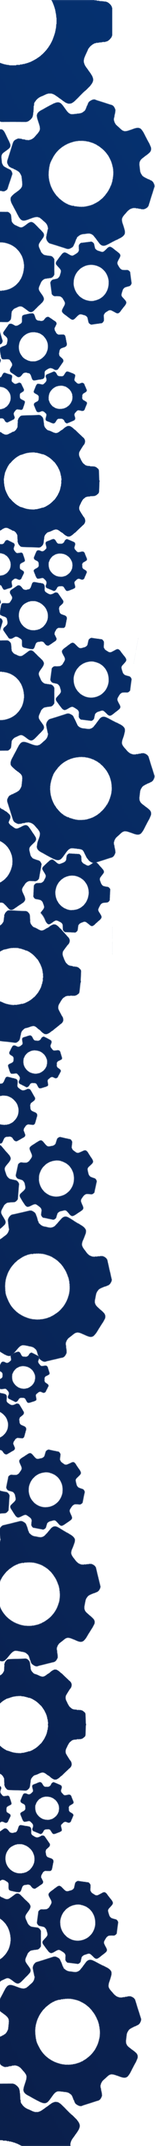
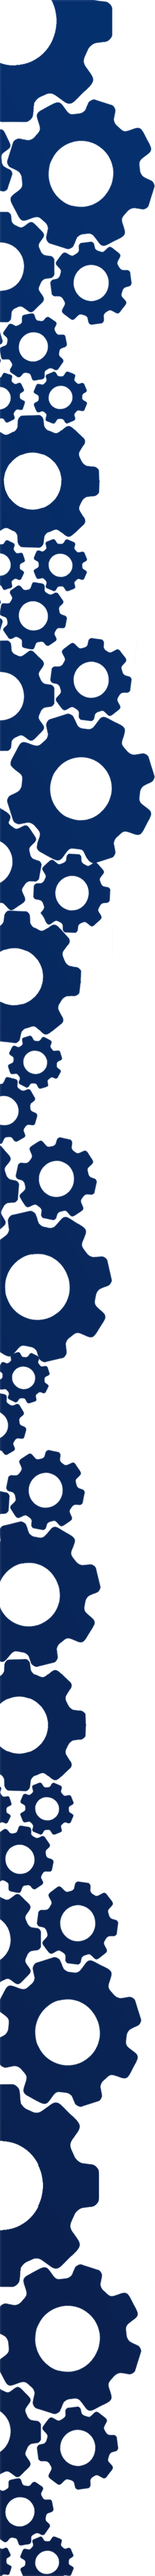
Cog tweaks, top and bottom

diff --git a/index.html b/index.html
@@ -229,6 +229,7 @@
                 </div>
 
             </div>
+            <img class="wq-cogs wq-cogs--bottom" src="images/cogs-page5-long.png" alt="" aria-hidden="true" />
         </section>
 
 
@@ -648,6 +649,7 @@
 
         <!-- Four -->
         <section id="four" class="wrapper wq-soft wq-soft--cogs fade-up">
+            <img class="wq-cogs wq-cogs--top" src="images/cogs-page4-long.png" alt="" aria-hidden="true" />
             <div class="inner">
                 <header class="align-center">
                     <h2 class=" darktext-h">Try it out</h2>
